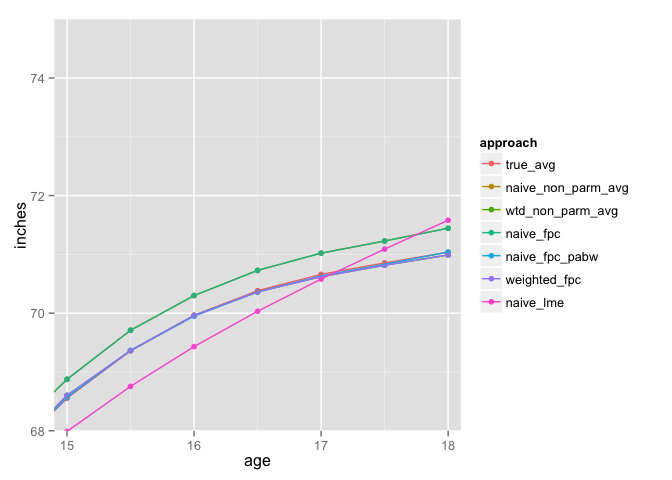
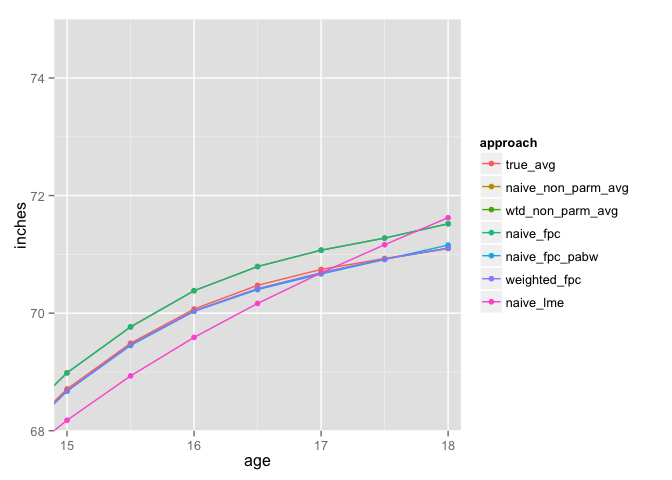
big update after long hiatus, roll back before this if necessary

Changed region(s): [[0.0625, 0.4375, 0.6875, 0.9062]]

diff --git a/readMe.md b/readMe.md
@@ -129,9 +129,9 @@ round(results,2)
 
 ```
 ##   naive_non_parm_avg wtd_non_parm_avg naive_fpc naive_fpc_pabw
-## 1               0.23             0.04      0.23           0.04
+## 1               0.18             0.03      0.18           0.04
 ##   weighted_fpc naive_lme
-## 1         0.04      0.38
+## 1         0.03      0.37
 ```
 
 
@@ -169,6 +169,15 @@ of prob.cens on age from
 ```
 
 
+sample_size=1000, ses_coef=0.02, age_coef=0.02
+
+```r
+#> round(colMeans(rbind.all.files),2)
+#naive_non_parm_avg   wtd_non_parm_avg          naive_fpc 
+#              0.16               0.03               0.16 
+#    naive_fpc_pabw       weighted_fpc          naive_lme 
+#              0.03               0.03               0.34 
+```
 
 Note:  WE only used the boys ('hgtm') from the Berkeley study:
 
@@ -180,6 +189,6 @@ ggplot(growth.mlt, aes(x=Var1, y=inches, group=Var2)) +
   geom_line() + facet_wrap(~ L1)
 ```
 
-![plot of chunk unnamed-chunk-6](./readMe_files/figure-html/unnamed-chunk-6.png) 
+![plot of chunk unnamed-chunk-7](./readMe_files/figure-html/unnamed-chunk-7.png) 
 
 
